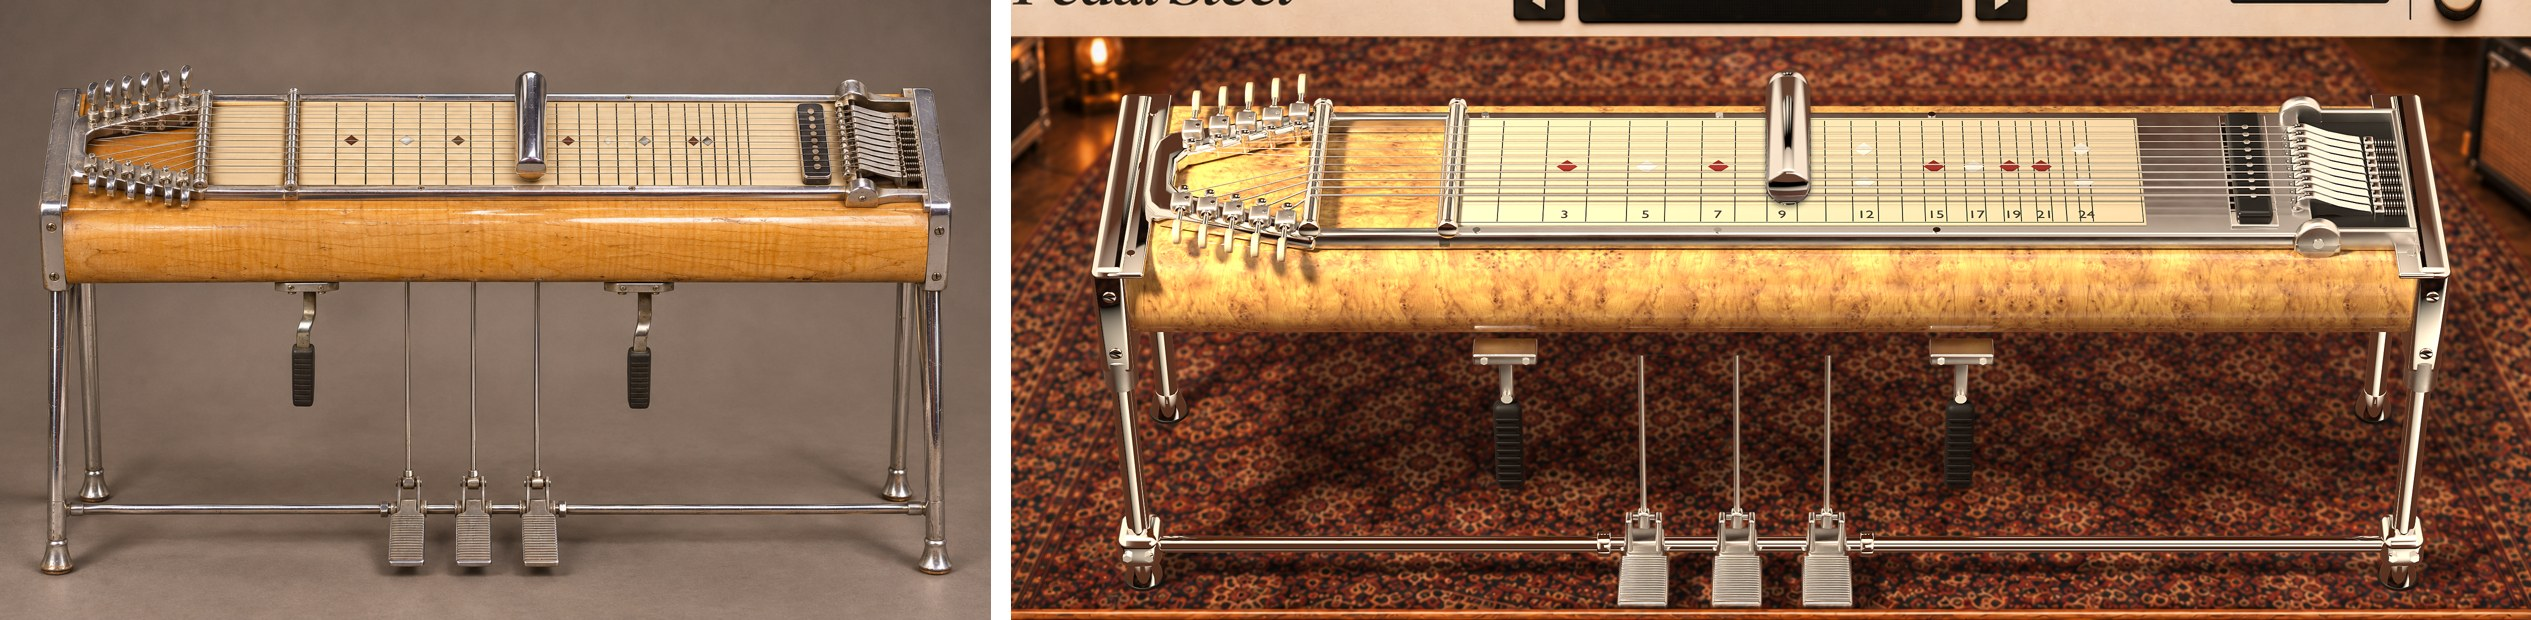
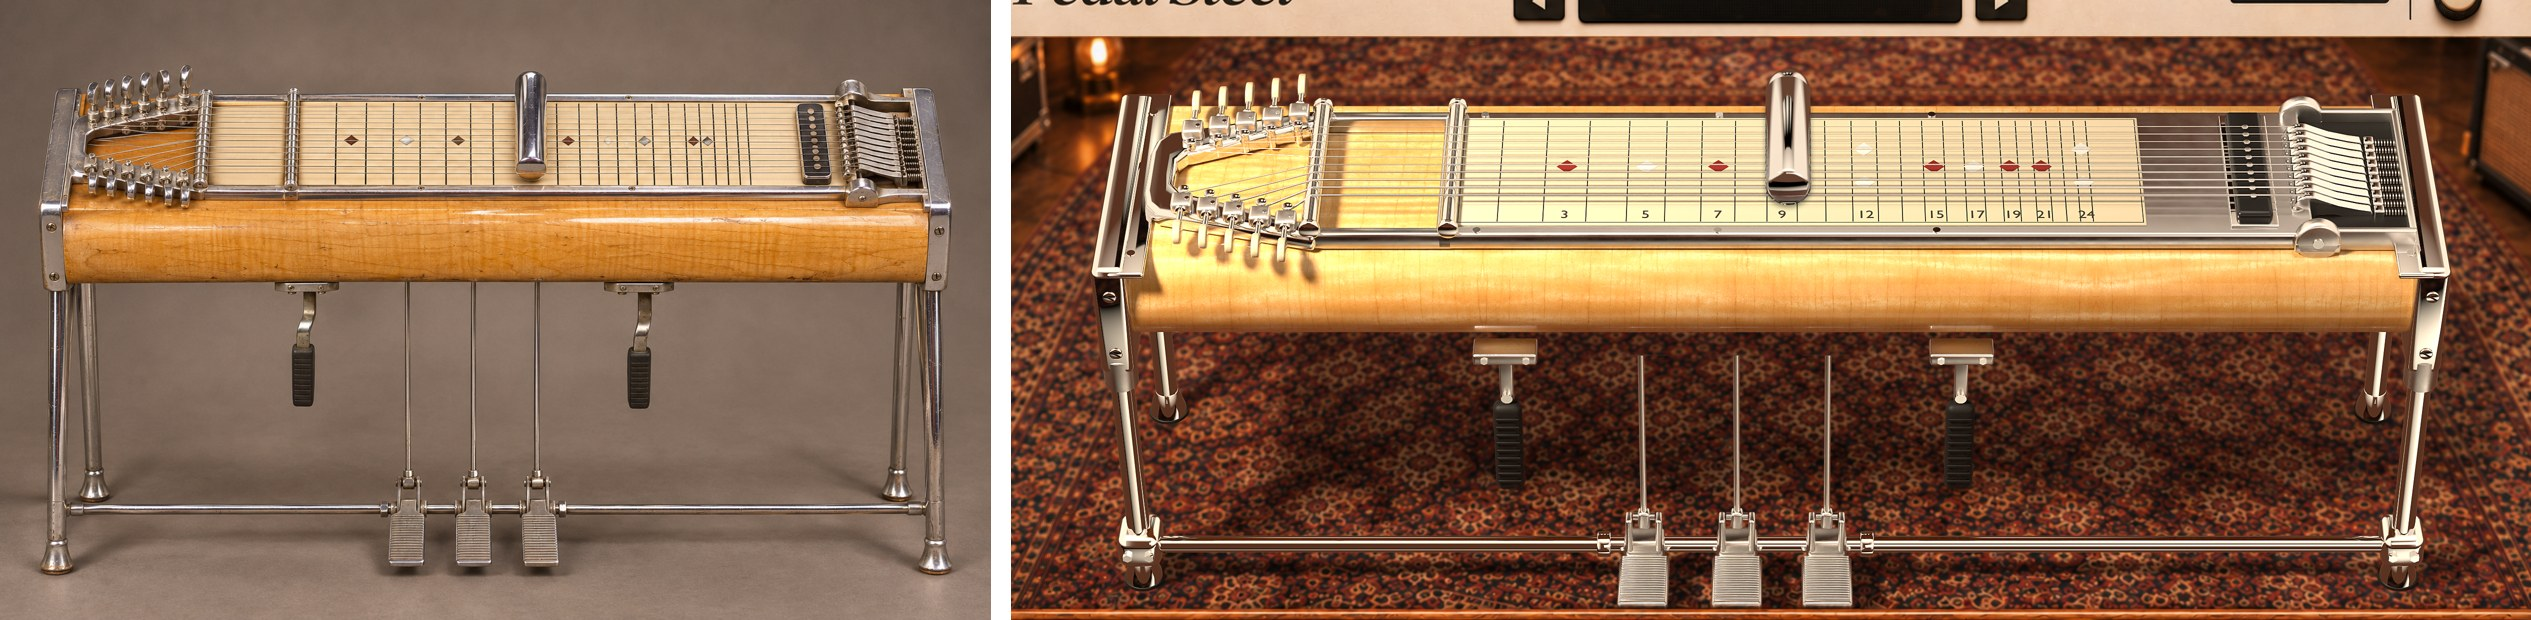
Bullnose maple in flamed blonde maple (generated veneer), matching the s3_1 concept

Changed region(s): [[0.437, 0.1532, 0.9676, 0.521], [0.7491, 0.1532, 0.874, 0.1839], [0.4682, 0.1532, 0.4994, 0.2145]]

diff --git a/design/ui_v2/blender/steel_3d.py b/design/ui_v2/blender/steel_3d.py
@@ -197,6 +197,9 @@ WOOD_TEX = os.path.join(WOOD_DIR, "rosewood_1_1.png")
 PEARL_TEX = os.path.join(WOOD_DIR, "pearloid_2_1.png")    # real mother-of-pearl celluloid (approved ref p3d_pearloid_4)
 KOA_TEX = os.path.join(WOOD_DIR, "koa_1_1.png")           # real figured koa (the procedural curl read as stripes: Joshua)
 MAPLE_TEX = os.path.join(WOOD_DIR, "maple_1_1.png")       # approved ref p3d_maple_1: honey birdseye/burl maple
+if SHAPE == "bullnose":   # the 60s blonde (round29 s3_1) is flamed maple, not burl
+    MAPLE_TEX = os.path.join(WOOD_DIR, "flamemaple_1_1.png")
+    for _k, _v in dict(MAPLE_SAT=0.95, MAPLE_VAL=1.0, MAPLE_HUE=0.5, MAPLE_SCALE=1.0).items(): os.environ.setdefault(_k, str(_v))
 M_WOOD = (photo_wood(WOOD_TEX) if FINISH == "rosewood" and os.path.exists(WOOD_TEX) else
           photo_wood(KOA_TEX, E("KOA_SAT", 1.12), E("KOA_VAL", 0.93), E("KOA_HUE", 0.515), E("KOA_SCALE", 1.8)) if FINISH == "koa" and os.path.exists(KOA_TEX) else
           photo_wood(PEARL_TEX, E("PEARL_SAT", 0.42), E("PEARL_VAL", 1.08), E("PEARL_HUE", 0.512), E("PEARL_SCALE", 2.2)) if FINISH == "pearloid" and os.path.exists(PEARL_TEX) else
